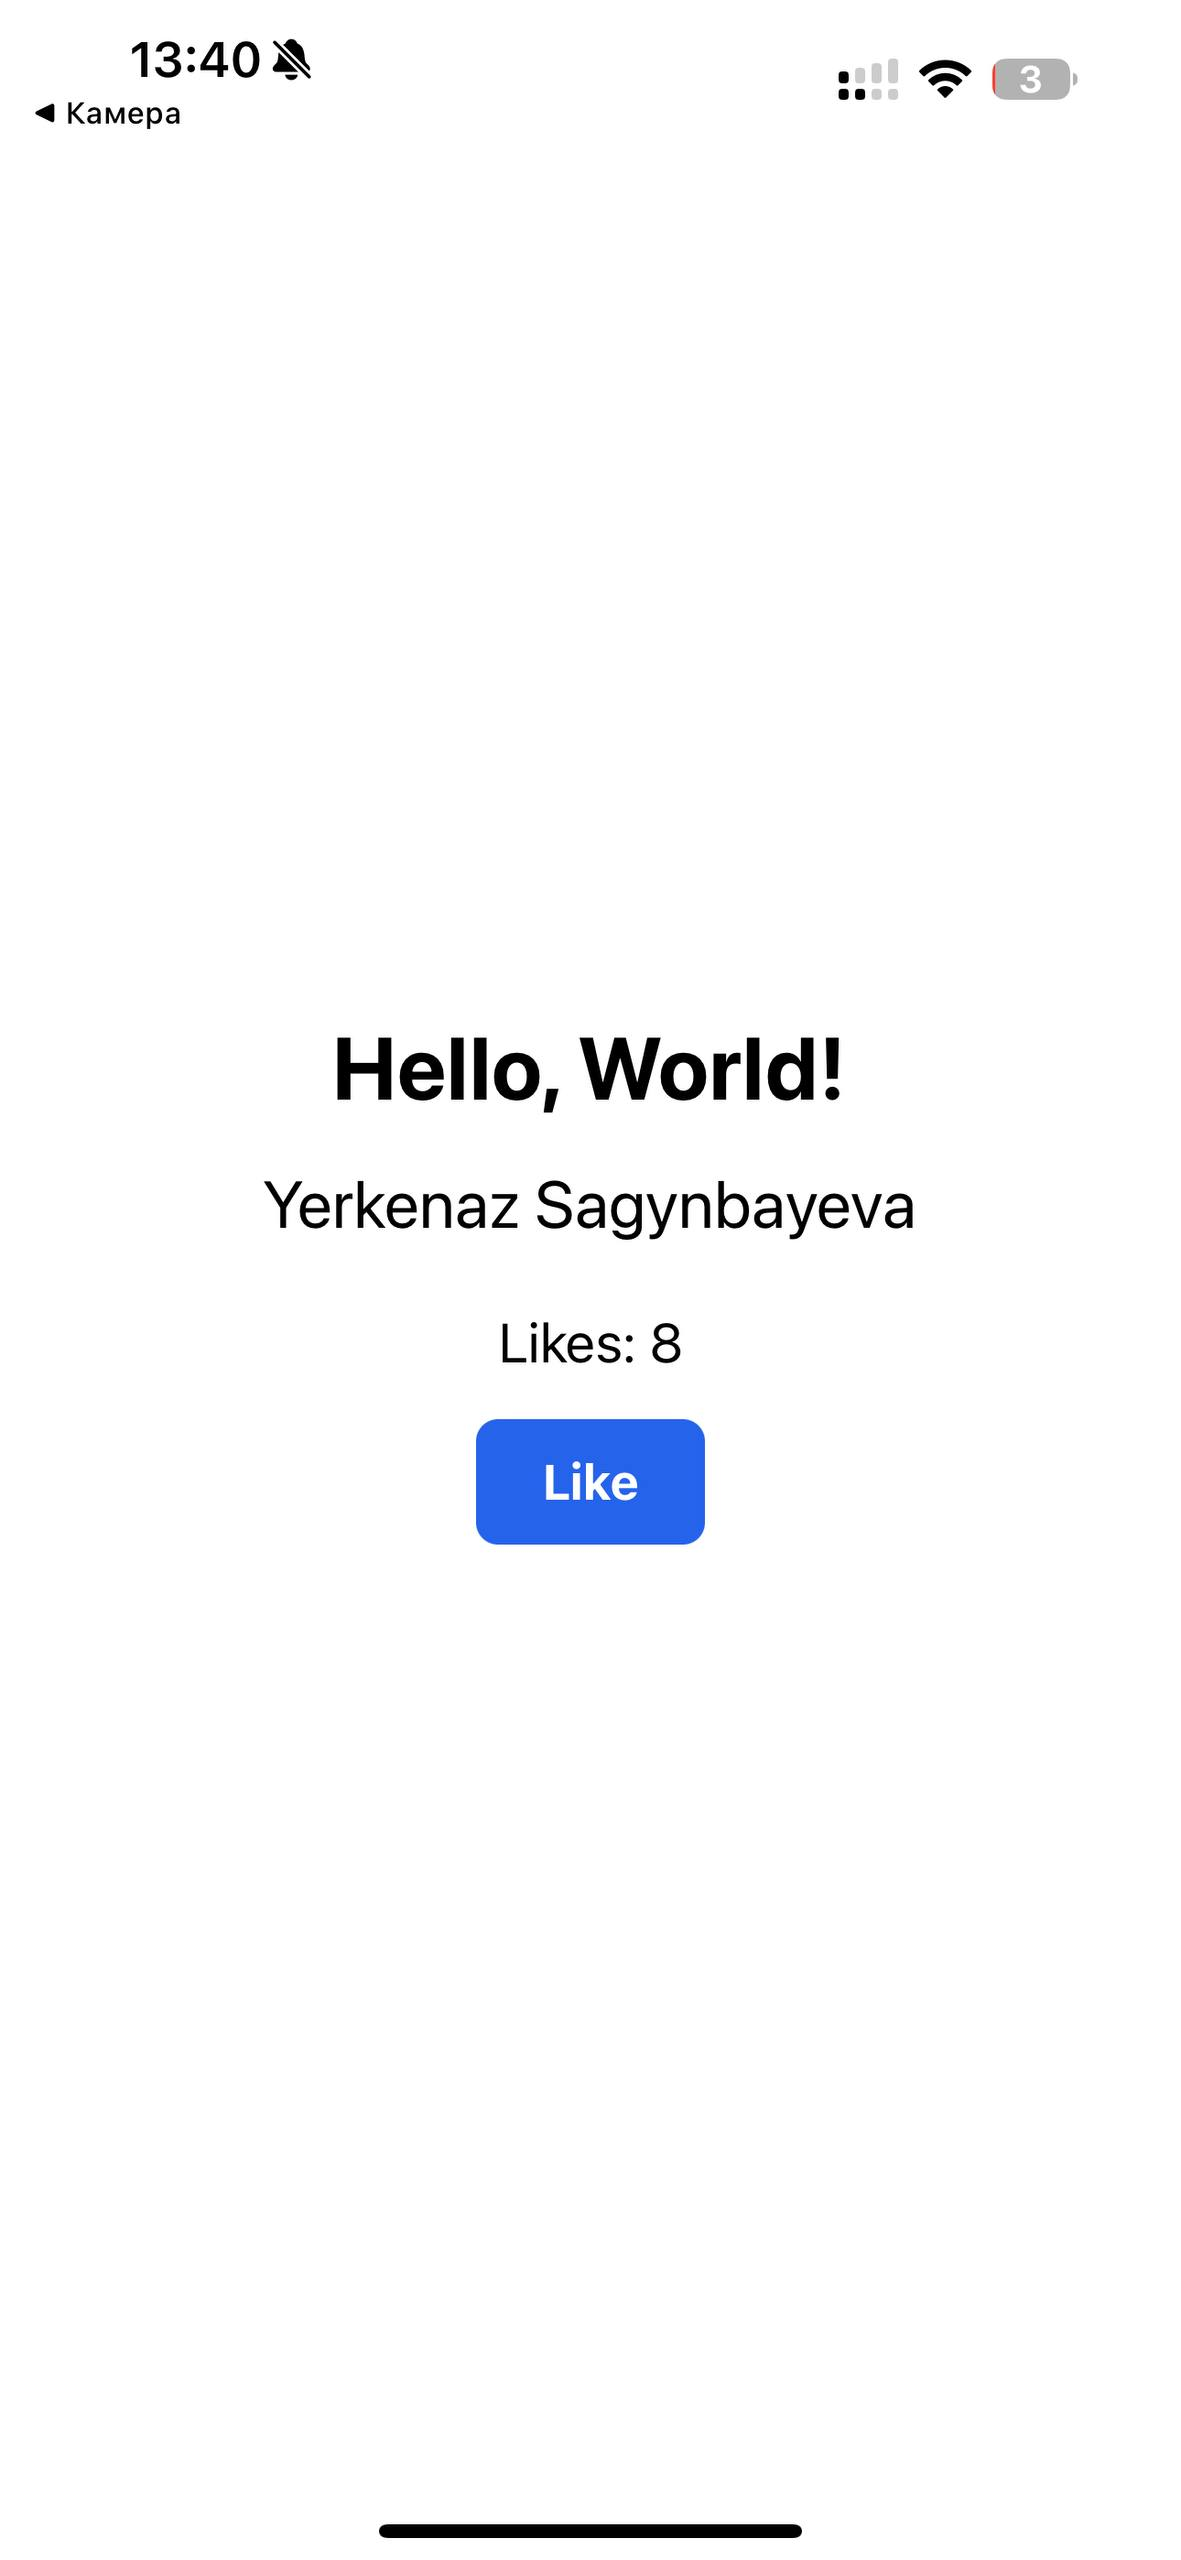
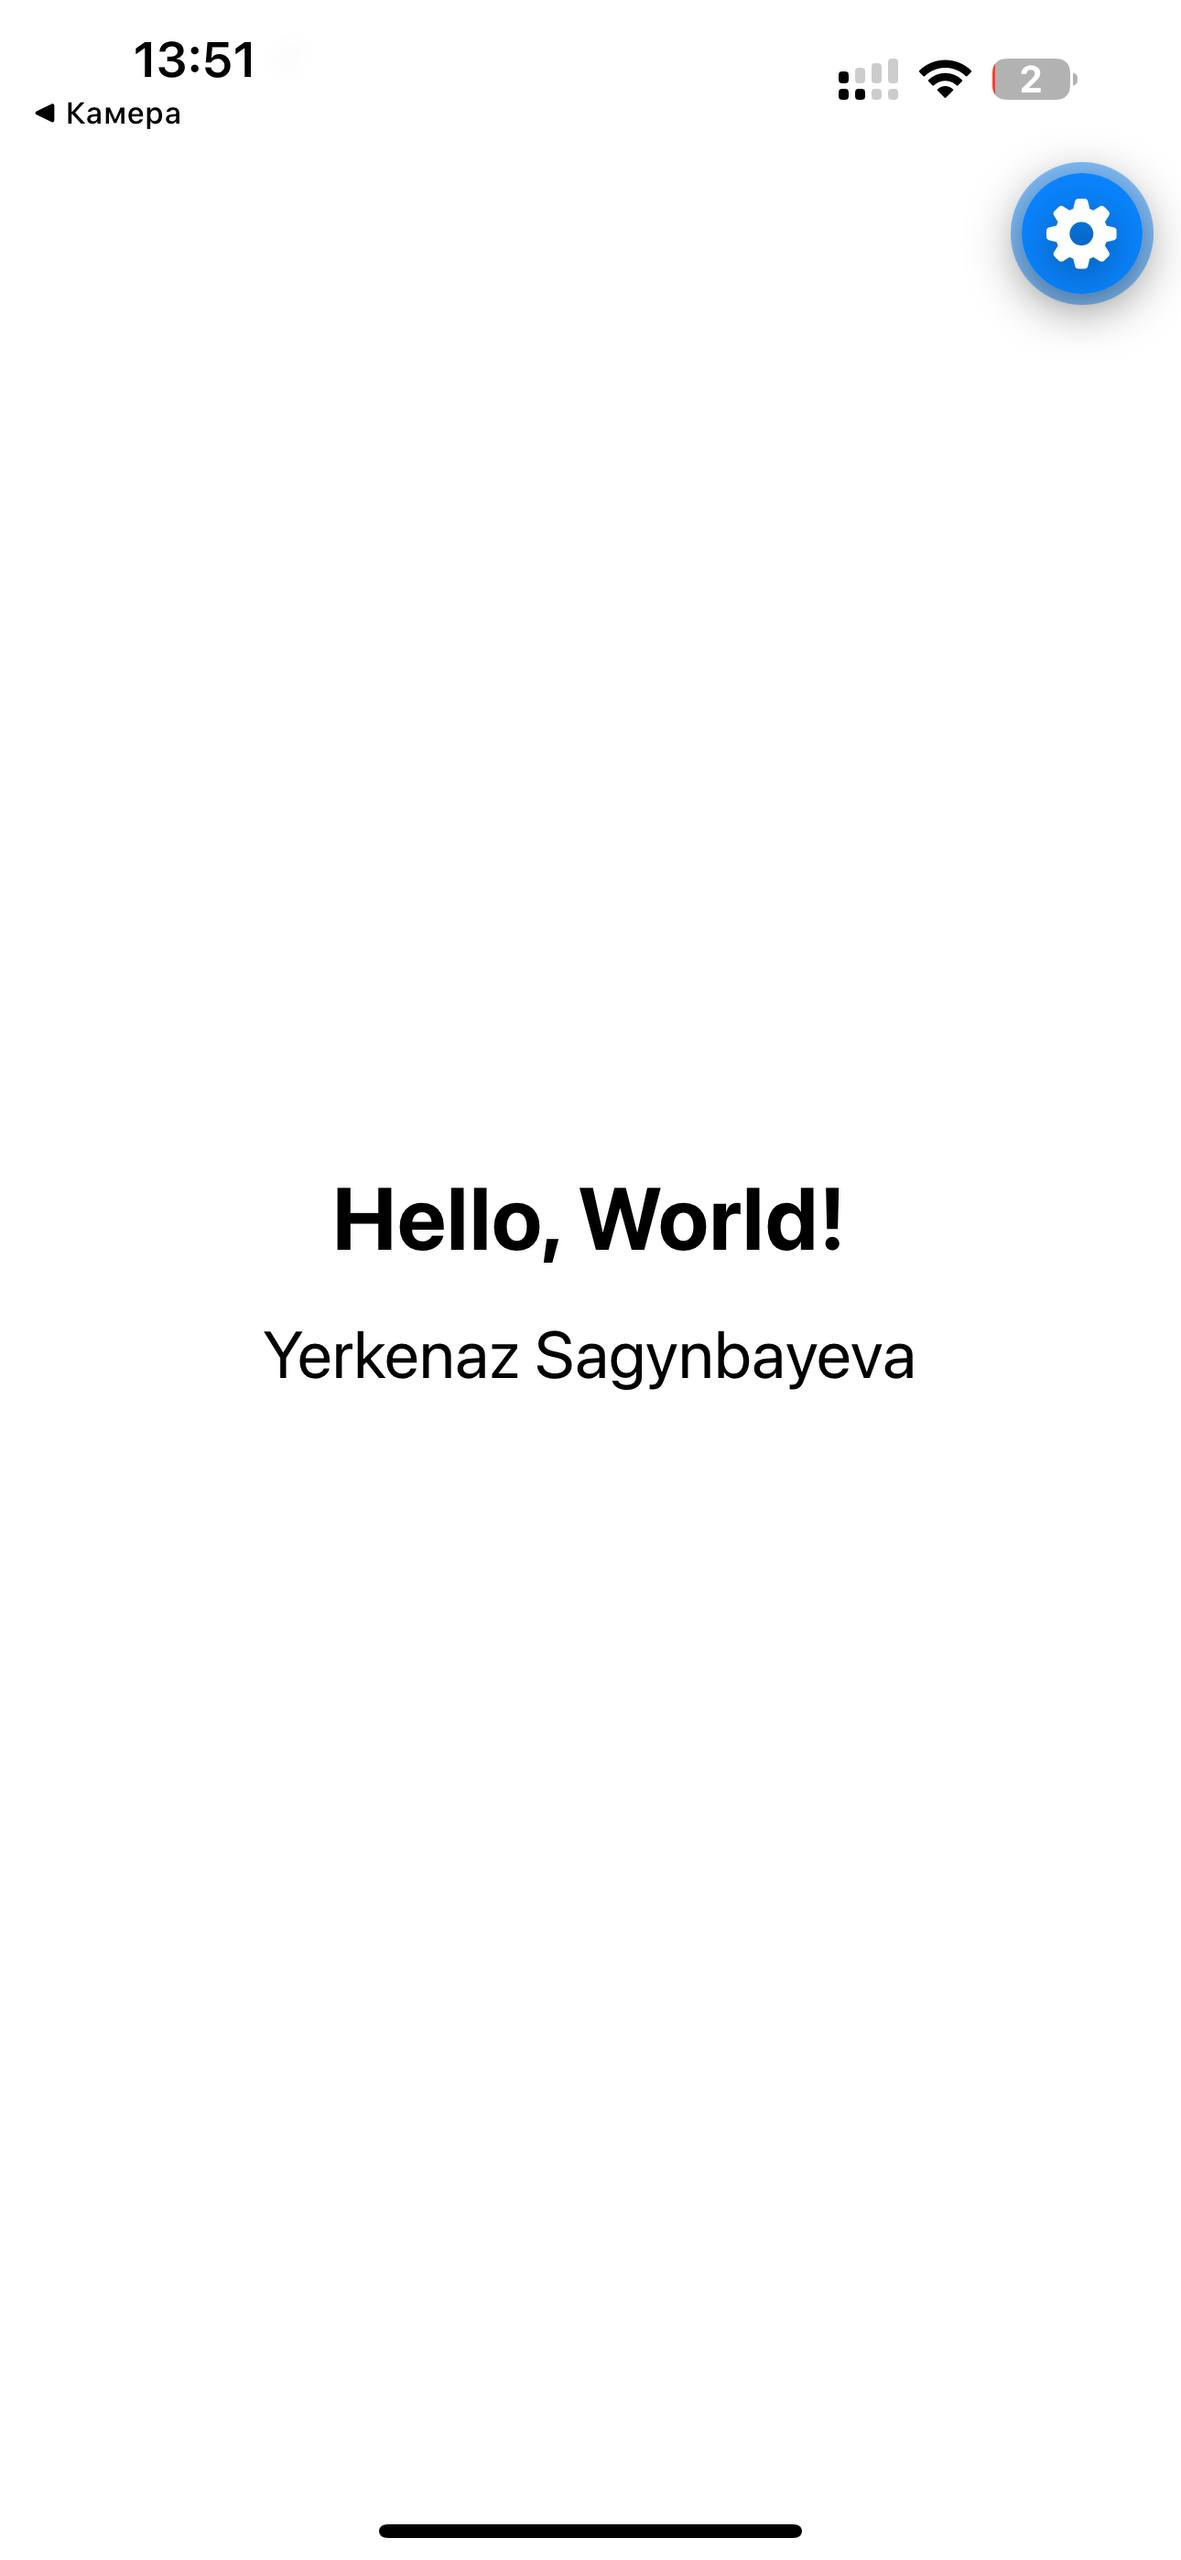
Hello, World! on my device

diff --git a/App.tsx b/App.tsx
@@ -1,21 +1,10 @@
-import { useState } from 'react';
-import { View, Text, Pressable, StyleSheet } from 'react-native';
+import { View, Text, StyleSheet } from 'react-native';
 
 export default function App() {
-  const [likes, setLikes] = useState(0);
-
   return (
     <View style={styles.container}>
       <Text style={styles.title}>Hello, World!</Text>
       <Text style={styles.name}>Yerkenaz Sagynbayeva</Text>
-      <Text style={styles.likes}>Likes: {likes}</Text>
-
-      <Pressable
-        style={styles.button}
-        onPress={() => setLikes(likes + 1)}
-      >
-        <Text style={styles.buttonText}>Like</Text>
-      </Pressable>
     </View>
   );
 }
@@ -25,33 +14,13 @@ const styles = StyleSheet.create({
     flex: 1,
     alignItems: 'center',
     justifyContent: 'center',
-    padding: 24,
   },
   title: {
     fontSize: 32,
     fontWeight: 'bold',
-    marginBottom: 16,
   },
   name: {
     fontSize: 24,
-    marginBottom: 24,
-  },
-  likes: {
-    fontSize: 20,
-    marginBottom: 16,
-  },
-  button: {
-    minHeight: 44,
-    paddingHorizontal: 24,
-    paddingVertical: 12,
-    backgroundColor: '#2563eb',
-    borderRadius: 8,
-    alignItems: 'center',
-    justifyContent: 'center',
-  },
-  buttonText: {
-    color: 'white',
-    fontSize: 18,
-    fontWeight: 'bold',
+    marginTop: 16,
   },
 });
